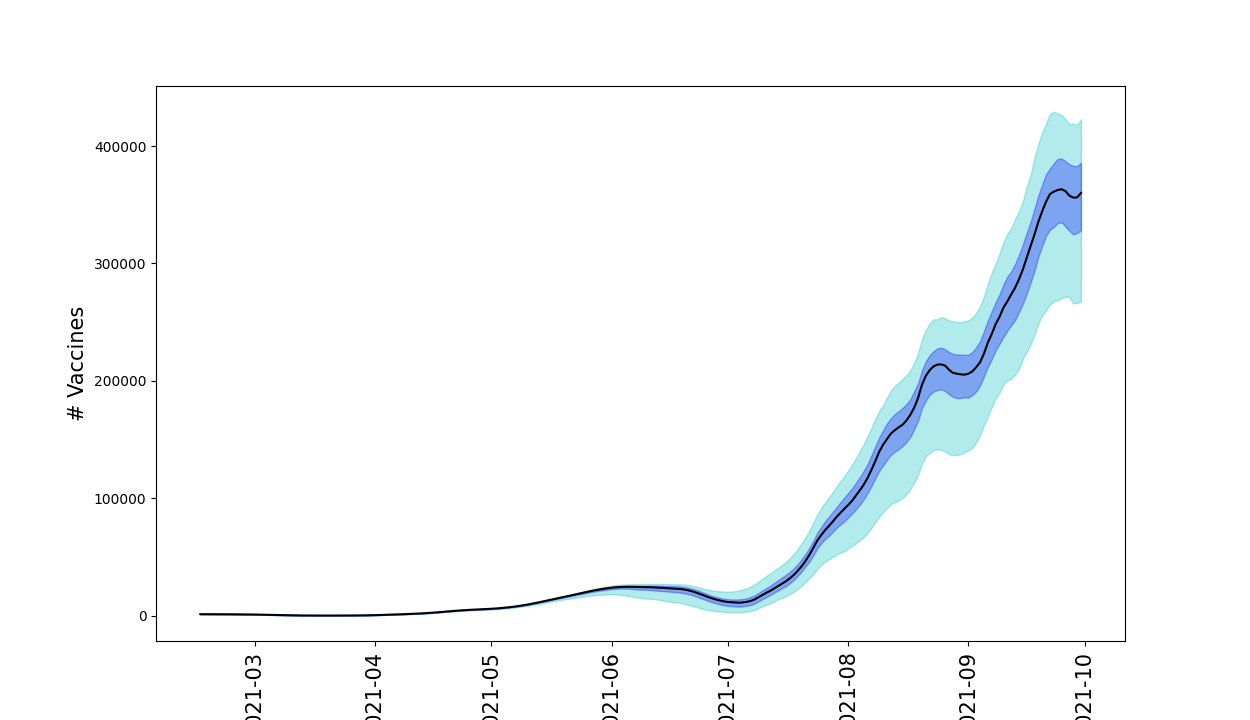
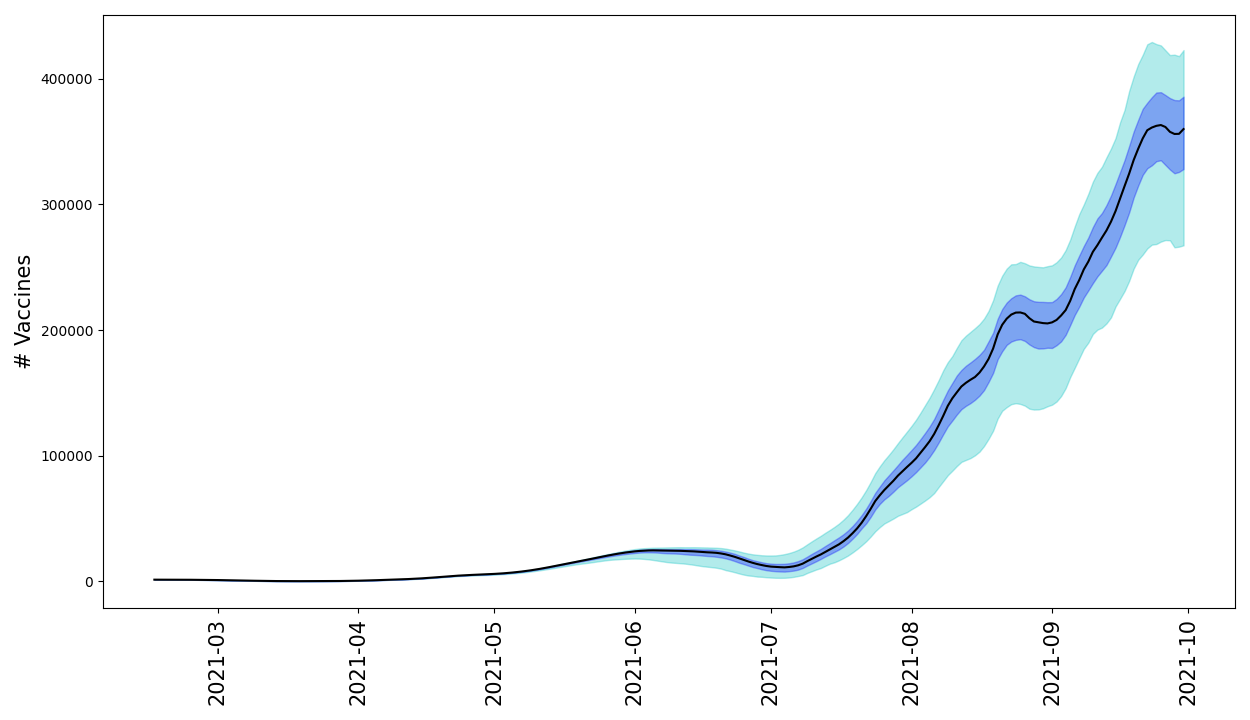
Adding plot file and final figures.

diff --git a/Python/03_plot_samples.py b/Python/03_plot_samples.py
@@ -5,6 +5,7 @@
 # First version 2022-08-15
 # ------------------------------------------------------#
 
+# Import libraries and functions
 import os
 import numpy as np
 import pandas as pd
@@ -13,6 +14,7 @@ from matplotlib import dates as mdates
 from functions.adjust_cases import prepare_cases
 from functions.utils_plotting import create_df_response
 
+# Read 
 samples  = np.load('outputs/samples_agg_Final_450.npz')
 samplesV = np.load('outputs/samples_aggV_Final_360.npz')
 
@@ -139,6 +141,7 @@ ax.fill_between(df_Vr.index.values, df_Vr["high_50"], df_Vr["low_50"], color='b'
 
 ax.set_ylabel(r"# Vaccines", fontsize=15)
 ax.tick_params( which='both', axis='x', labelrotation=90, labelsize=15)
+plt.tight_layout()
 plt.savefig("figs/inference_vaccine.png")
 plt.show()
 
